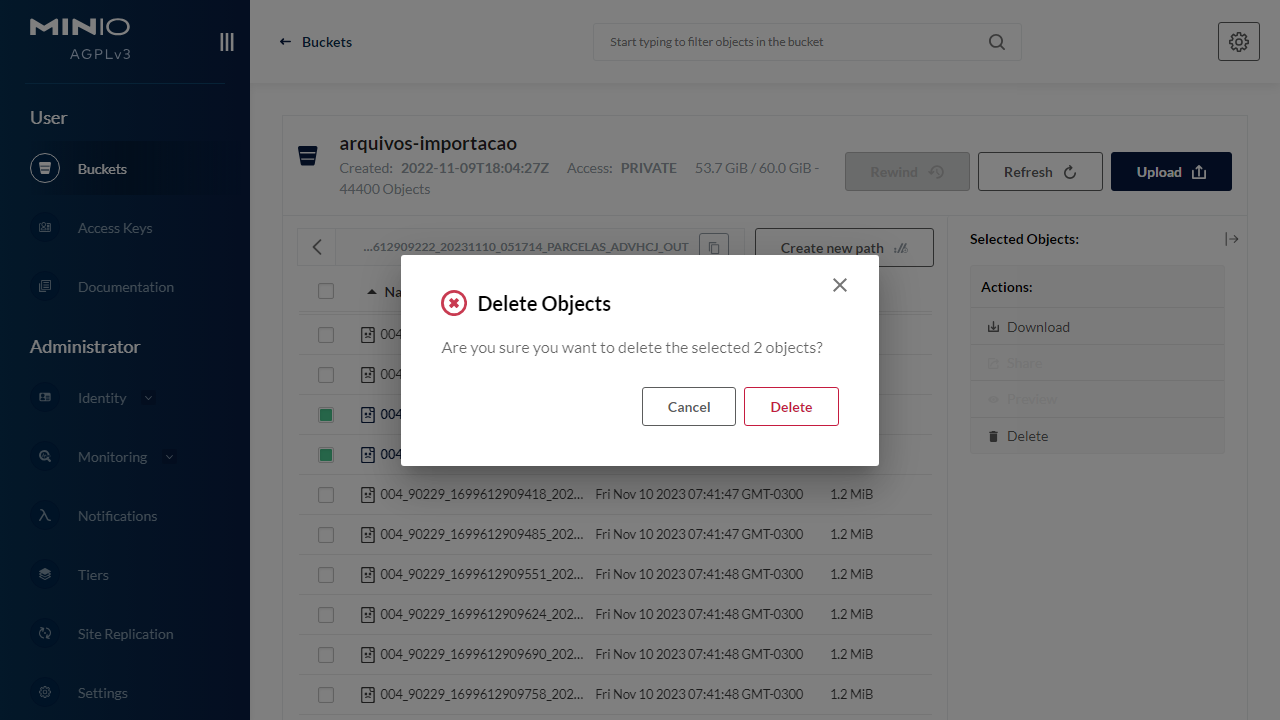
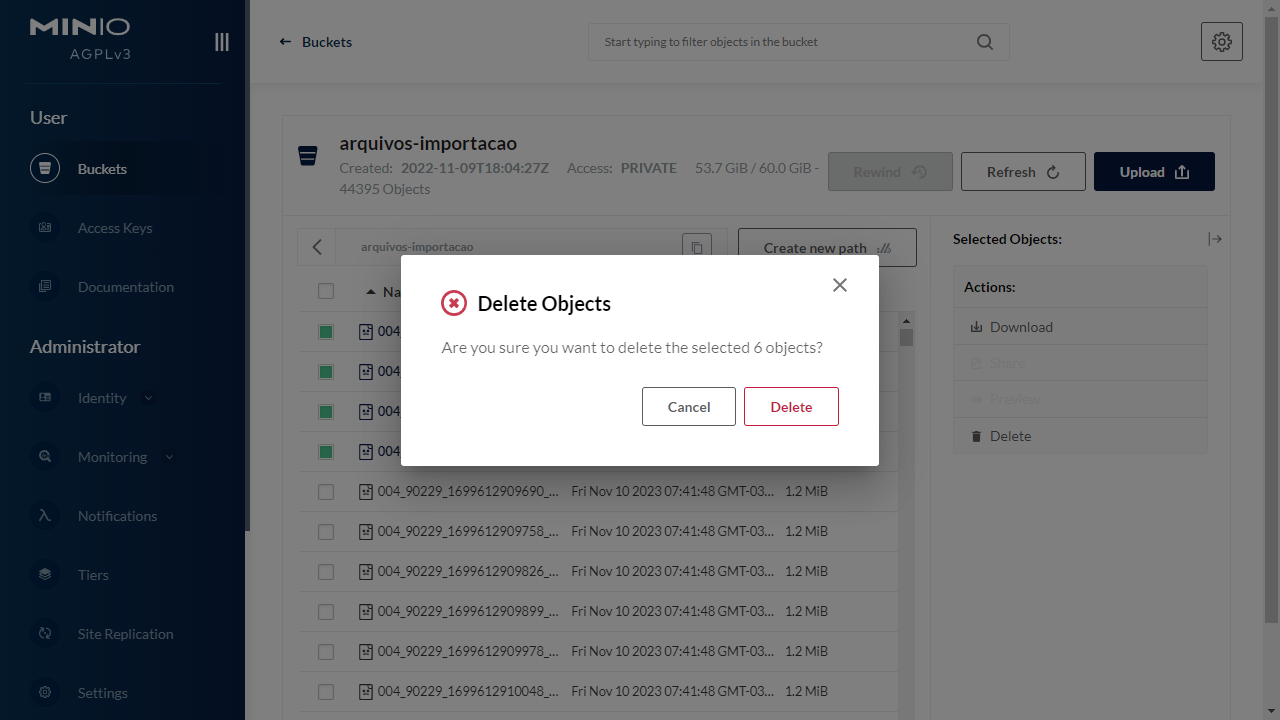
Quintou

diff --git a/PlayWright.py b/PlayWright.py
@@ -18,31 +18,40 @@ with sync_playwright() as p:
 
         page.wait_for_timeout(10000)
         page.locator('xpath= //*[@id="object-list-wrapper"]/div/div[1]/div[2]/span/div/div[1]/div/div[2]/div/div[1]/div[1]/span/input').click()
-        sleep(0.5)
+        # sleep(5)
         for click in range(5):
-            page.keyboard.press('ArrowDown')
-            sleep(1)
-            page.mouse.click(323, 451)
+            sleep(0.5)
+            # page.mouse.click(325, 490)
+            # sleep(0.5)
+            # page.keyboard.press('ArrowDown')
+
+            current_element = page.query_selector('xpath= //*[@id="object-list-wrapper"]/div/div[1]/div[2]/span/div/div[1]/div/div[2]/div/div[1]/div[1]/span/input')
+
+            # Selecionar o próximo elemento usando XPath
+            next_element = current_element.evaluate('following-sibling::*')
+            sleep(0.5)
+            # Clicar no próximo elemento
+            next_element.click()
+
+
 
 
         # page.wait_for_timeout(5000)
         page.locator('xpath= //*[@id="object-list-wrapper"]/div/div[2]/ul/li[5]/span/button/span[2]').click()
         page.wait_for_timeout(5000)
-        # page.screenshot(path='Teste.png')
-        # page.locator('xpath= //*[@id="confirm-ok"]/span').click()
+        page.screenshot(path='Teste.png')
+        page.locator('xpath= //*[@id="confirm-ok"]/span').click()
 
+        # from mouseinfo import mouseInfo
 
-
-
-
-
+        # mouseInfo()
 
 
         # Esperar pela navegação para verificar se o formulário foi submetido com sucesso
 
 
 
-        self.wait(10000)
+        self.wait(1000)
         browser.close()
 
 
